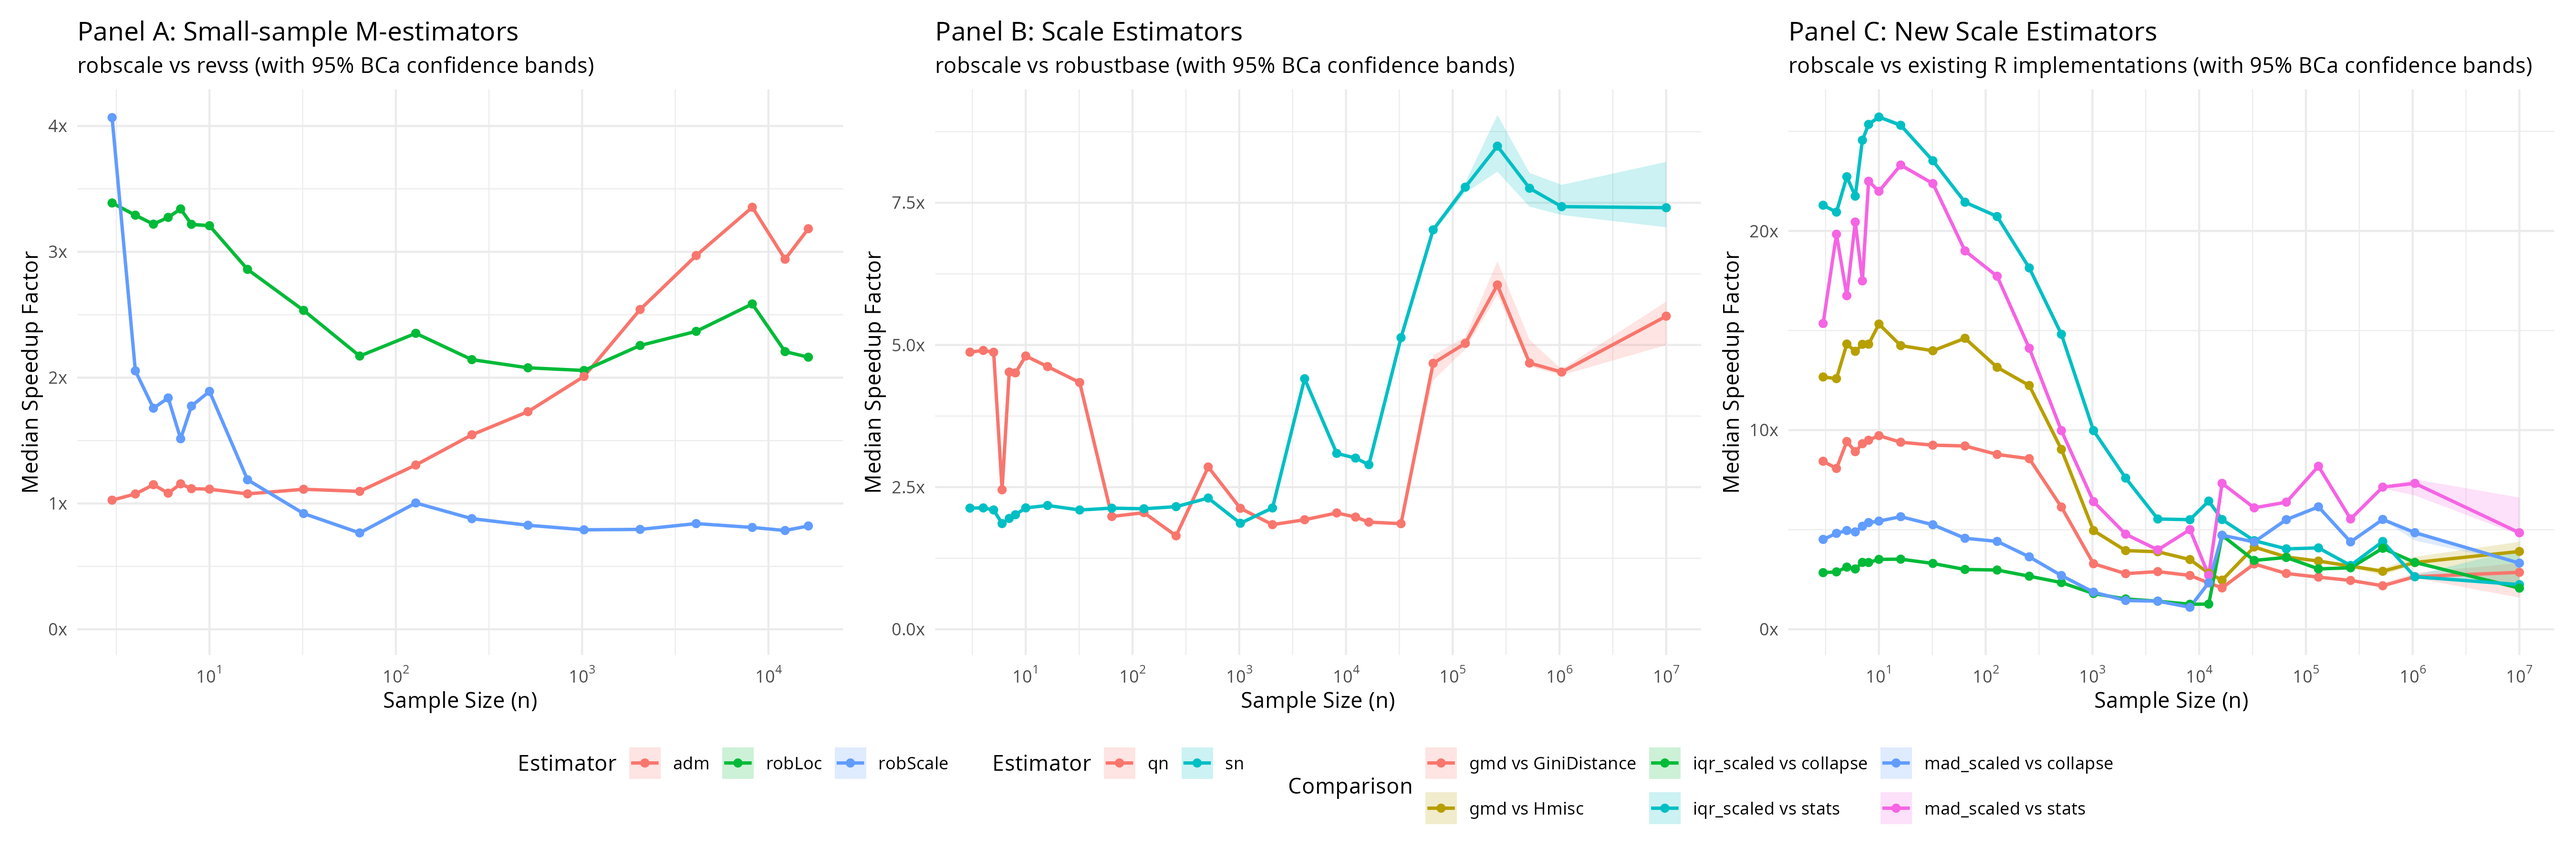
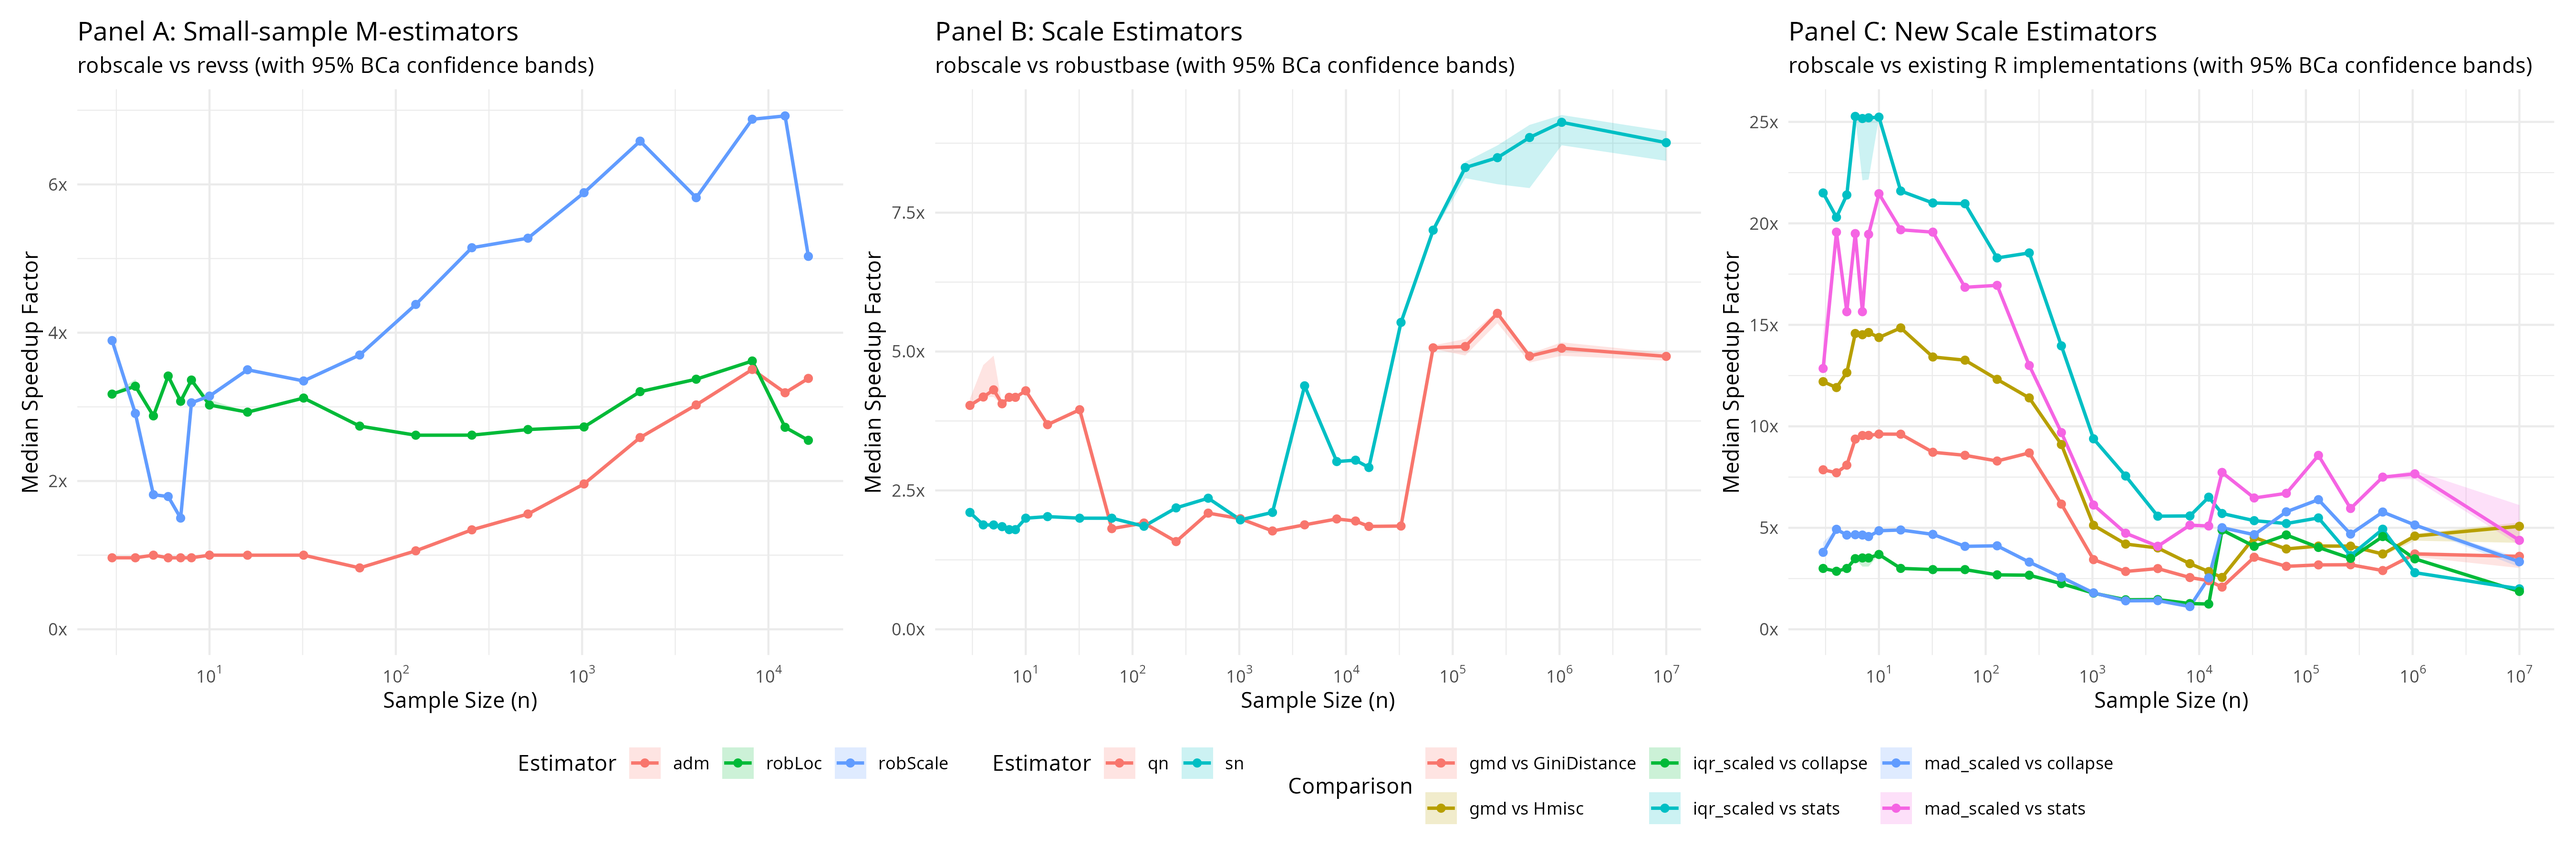
docs: update README to v0.3.0, fix adm() CI docs, refresh benchmarks
- Bump version string in Overview from v0.2.1 to v0.3.0
- Remove adm() from CI exception list (it now supports ci = TRUE)
- Add ci = TRUE to adm() section header and usage example
- Add Architecture notes: EnsembleCore, lambda-at-callsite TBB pattern,
  extern-template compile optimisation (300s -> 52s)
- Tighten Methodological enhancements intro (active voice, possessive fix)
- Fix analyze_results.R: guard against NULL $bca from boot.ci when all
  bootstrap values are equal; fallback chain now reaches c(t0, t0)
  instead of propagating NULL into as.data.frame()
- Rerun benchmarks and regenerate speedup figure and README.md

diff --git a/README.md b/README.md
@@ -12,7 +12,7 @@ for small-sample M-estimation and `robustbase` for the $`Q_n`$ and $`S_n`$
 scale estimators—carry significant computational overhead for
 time-critical applications.
 
-`robscale` v0.2.1 provides 11 exported functions spanning the full
+`robscale` v0.3.0 provides 11 exported functions spanning the full
 robustness–efficiency spectrum: from the non-robust but maximally
 efficient bias-corrected standard deviation (`sd_c4`, 100% ARE) through
 the Gini mean difference (`gmd`, 98% ARE, 29.3% breakdown), to
@@ -27,13 +27,13 @@ All estimators are implemented as C++17 kernels. The M-estimators use
 vectorized `tanh` evaluation (where batch sizes justify the overhead)
 and Newton–Raphson iteration; $`Q_n`$ and $`S_n`$ use parallelized
 $`O(n \log n)`$ algorithms via TBB. Against `revss`, the package achieves
-**1.1–4.1x** speedups for the small-sample M-estimators. Against
-`robustbase`, it achieves **1.8–8.1x** for $`S_n`$ and **1.3–5.4x** for
-$`Q_n`$—with gains peaking near **8.1x** at $`n = 10^7`$ as TBB parallelism
+**1.0–3.9x** speedups for the small-sample M-estimators. Against
+`robustbase`, it achieves **1.8–9.1x** for $`S_n`$ and **1.6–5.7x** for
+$`Q_n`$—with gains peaking near **9.1x** at $`n = 10^7`$ as TBB parallelism
 reduces the computational bottleneck for massive datasets. The new
 estimators (`gmd`, `iqr_scaled`, `mad_scaled`) outperform their base R
-and CRAN counterparts by **2.5–15.2x** (GMD vs `Hmisc`), **2.2–26.6x**
-(IQR vs `stats::IQR`), and **4.8–22.9x** (MAD vs `stats::mad`).
+and CRAN counterparts by **2.6–14.9x** (GMD vs `Hmisc`), **2.0–25.3x**
+(IQR vs `stats::IQR`), and **4.1–21.5x** (MAD vs `stats::mad`).
 
 ## Installation
 
@@ -126,8 +126,8 @@ Additionally, `robLoc(x)` provides an M-estimate of location (98.4% ARE,
 `level = 0.95`; when `ci = TRUE`, they return an object of class
 `"robscale_ci"` containing the point estimate and a confidence interval
 (analytical for individual estimators, bootstrap for `scale_robust()`).
-The exceptions are `adm()` and `robLoc()`, which do not support
-confidence intervals.
+The exception is `robLoc()`, which does not support confidence
+intervals.
 
 ### `sd_c4(x, na.rm = FALSE, ci = FALSE, level = 0.95)`
 
@@ -171,7 +171,7 @@ gmd(c(1, 2, 3, 5, 7, 8))
 gmd(c(1, 2, 3, 5, 7, 8), constant = 1)   # raw (unscaled)
 ```
 
-### `adm(x, center, constant = 1.2533141373155001, na.rm = FALSE)`
+### `adm(x, center, constant = 1.2533141373155001, na.rm = FALSE, ci = FALSE, level = 0.95)`
 
 Computes the mean absolute deviation from the median, scaled by a
 consistency constant for asymptotic normality under the Gaussian model:
@@ -188,6 +188,7 @@ the fallback scale estimator when the MAD collapses to zero.
 ``` r
 adm(c(1, 2, 3, 5, 7, 8))
 adm(c(1, 2, 3, 5, 7, 8), constant = 1)   # without consistency correction
+adm(c(1, 2, 3, 5, 7, 8), ci = TRUE)      # with 95% CI
 ```
 
 ### `robLoc(x, scale = NULL, na.rm = FALSE, maxit = 80L, tol = sqrt(.Machine$double.eps))`
@@ -425,12 +426,11 @@ get_consistency_constant("qn", n = 10)  # finite-sample correction at n = 10
 
 ## Methodological enhancements
 
-`robscale` implements the estimators defined by Rousseeuw & Verboven
-(2002) and Rousseeuw & Croux (1993). While it maintains the same core
-algorithmic foundations, the newest version of `revss` uses updated bias
-correction factors, meaning results may not be numerically identical.
-`robscale` focus remains on computational efficiency, where it continues
-to cut run times significantly across all sample sizes.
+`robscale` implements the estimators of Rousseeuw & Verboven (2002) and
+Rousseeuw & Croux (1993). The newest version of `revss` has updated its
+bias correction factors, so numerical results may differ slightly at the
+level of convergence tolerances. `robscale`’s focus is computational
+efficiency: it cuts run times significantly at all sample sizes.
 
 ### 1. The tanh identity for the logistic psi function
 
@@ -739,12 +739,12 @@ Table 3
 
 |      $`n`$ | `robustbase::Qn` | `robscale::qn` | Speedup  |
 |---------:|:-----------------|:---------------|:---------|
-|        8 | 9.5 µs           | 2.1 µs         | **4.6x** |
-|       16 | 10.4 µs          | 2.1 µs         | **4.9x** |
-|       64 | 15.1 µs          | 7.6 µs         | **2.0x** |
-|     1024 | 468.2 µs         | 241.2 µs       | **1.9x** |
-|    65536 | 59586.2 µs       | 13470.6 µs     | **4.3x** |
-| 10000000 | 10.6 s           | 2.2 s          | **4.9x** |
+|        8 | 9.9 µs           | 2.4 µs         | **4.2x** |
+|       16 | 10.5 µs          | 2.9 µs         | **3.7x** |
+|       64 | 14.2 µs          | 7.8 µs         | **1.8x** |
+|     1024 | 442.3 µs         | 221.4 µs       | **2.0x** |
+|    65536 | 55935.4 µs       | 11094.4 µs     | **5.1x** |
+| 10000000 | 10.5 s           | 2.1 s          | **4.9x** |
 
 </div>
 
@@ -754,19 +754,35 @@ Table 4
 
 |      $`n`$ | `robustbase::Sn` | `robscale::sn` | Speedup  |
 |---------:|:-----------------|:---------------|:---------|
-|        8 | 4.0 µs           | 2.1 µs         | **2.0x** |
-|       16 | 4.5 µs           | 2.1 µs         | **2.1x** |
-|       64 | 5.6 µs           | 2.5 µs         | **2.2x** |
-|     1024 | 35.2 µs          | 19.1 µs        | **1.8x** |
-|    65536 | 6751.1 µs        | 1078.2 µs      | **6.3x** |
-| 10000000 | 1.4 s            | 0.2 s          | **7.0x** |
+|        8 | 4.3 µs           | 2.4 µs         | **1.8x** |
+|       16 | 4.8 µs           | 2.4 µs         | **2.0x** |
+|       64 | 5.7 µs           | 2.9 µs         | **2.0x** |
+|     1024 | 36.7 µs          | 18.6 µs        | **2.0x** |
+|    65536 | 6652.8 µs        | 935.0 µs       | **7.2x** |
+| 10000000 | 1.5 s            | 0.2 s          | **8.8x** |
 
 </div>
 
 ## Architecture overview
 
 `robscale` uses a tiered dispatch architecture to select the most
-efficient algorithm based on sample size and hardware capabilities:
+efficient algorithm based on sample size and hardware capabilities.
+
+**Ensemble kernel.** The bootstrap pipeline shared by
+`cpp_scale_ensemble` and `cpp_scale_ensemble_ci` is consolidated in
+`EnsembleCore` (`src/ensemble.cpp`). Its `run(xp, n, n_boot)` method
+allocates a fused work buffer, draws bootstrap resamples, evaluates all
+7 estimators, and computes inverse-variance weights. Both exported
+functions delegate to `EnsembleCore::run()`, so the pipeline is defined
+once. **TBB workers** (`QnRefineWorker`, `SnWorker`) use lambda wrappers
+at TBB call sites instead of a TBB range overload, eliminating the
+undefined behavior from casting away `const` on `RcppParallel::Worker`.
+
+**Compile-time.** Sort network entry points (`small_sort`, `median_net`)
+are instantiated once in `src/sort_net_inst.cpp` via explicit `template`
+definitions; all other translation units suppress redundant codegen with
+`extern template`. This reduces a fully distributed build from
+approximately 300 s to 52 s on a 12-core machine.
 
 ```mermaid
 graph TD
@@ -851,7 +867,7 @@ compares `qn` and `sn` against `robustbase`; Panel C compares `gmd`,
 ### Small-sample M-estimators vs. `revss` (Panel A)
 
 In the target regime ($`n \le 20`$), `robscale` outperforms `revss` by
-**1.1–4.1x**. Drivers include:
+**1.0–3.9x**. Drivers include:
 
 - Transitioning from interpreted R to compiled C++17.
 - Achieving quadratic convergence with Newton–Raphson (3 iterations vs
@@ -859,7 +875,7 @@ In the target regime ($`n \le 20`$), `robscale` outperforms `revss` by
 - Eliminating heap allocation via stack-allocated memory arenas.
 - Deploying optimal sorting networks for $`n \le 16`$.
 
-Even at $`n = 16{,}384`$, the gains remain **1.4–4.8x** because the
+Even at $`n = 16{,}384`$, the gains remain **2.5–5.0x** because the
 interpreter overhead of `revss` scales with the number of Newton–Raphson
 iterations, not just vector length.
 
@@ -869,15 +885,15 @@ For $`Q_n`$ and $`S_n`$, the performance story follows two regimes separated
 by the parallelism threshold:
 
 **Small to medium samples ($`n \le 10^3`$).** `robscale` leads by
-**1.3–5.4x**. The gain comes primarily from the avoidance of R dispatch
+**1.6–5.7x**. The gain comes primarily from the avoidance of R dispatch
 overhead and the use of stack memory. For $`Q_n`$ at $`n = 8`$, the
-brute-force exact algorithm completes in 2.1 µs vs. 9.5 µs for
-`robustbase` — a **4.6x** edge.
+brute-force exact algorithm completes in 2.4 µs vs. 9.9 µs for
+`robustbase` — a **4.2x** edge.
 
-**Large samples ($`n \ge 10^4`$).** The advantage grows to **1.6–8.1x** as
-TBB parallelism engages. At $`n = 10^7`$, `qn` runs in 2.2 s vs. 10.6 s
-for `robustbase::Qn` (**4.9x**), and `sn` runs in 0.2 s vs. 1.4 s
-(**7.0x**). Parallel efficiency is bounded by Amdahl’s Law and memory
+**Large samples ($`n \ge 10^4`$).** The advantage grows to **1.9–9.1x** as
+TBB parallelism engages. At $`n = 10^7`$, `qn` runs in 2.1 s vs. 10.5 s
+for `robustbase::Qn` (**4.9x**), and `sn` runs in 0.2 s vs. 1.5 s
+(**8.8x**). Parallel efficiency is bounded by Amdahl’s Law and memory
 bandwidth; while the multi-threaded kernels provide substantial gains
 for massive datasets, speedups do not scale linearly with thread count.
 
@@ -889,52 +905,52 @@ Table 5
 
 |      $`n`$ | Comparison             | Speedup   |
 |---------:|:-----------------------|:----------|
-|       64 | gmd vs GiniDistance    | **8.9x**  |
-|       64 | gmd vs Hmisc           | **14.2x** |
-|       64 | iqr_scaled vs collapse | **3.0x**  |
-|       64 | iqr_scaled vs stats    | **21.5x** |
-|       64 | mad_scaled vs collapse | **4.6x**  |
-|       64 | mad_scaled vs stats    | **19.1x** |
+|       64 | gmd vs GiniDistance    | **8.6x**  |
+|       64 | gmd vs Hmisc           | **13.3x** |
+|       64 | iqr_scaled vs collapse | **2.9x**  |
+|       64 | iqr_scaled vs stats    | **21.0x** |
+|       64 | mad_scaled vs collapse | **4.1x**  |
+|       64 | mad_scaled vs stats    | **16.9x** |
 |     1024 | gmd vs GiniDistance    | **3.4x**  |
-|     1024 | gmd vs Hmisc           | **5.0x**  |
-|     1024 | iqr_scaled vs collapse | **1.6x**  |
-|     1024 | iqr_scaled vs stats    | **9.0x**  |
-|     1024 | mad_scaled vs collapse | **2.6x**  |
-|     1024 | mad_scaled vs stats    | **9.0x**  |
-|    65536 | gmd vs GiniDistance    | **2.5x**  |
-|    65536 | gmd vs Hmisc           | **3.3x**  |
-|    65536 | iqr_scaled vs collapse | **3.6x**  |
-|    65536 | iqr_scaled vs stats    | **4.0x**  |
+|     1024 | gmd vs Hmisc           | **5.1x**  |
+|     1024 | iqr_scaled vs collapse | **1.8x**  |
+|     1024 | iqr_scaled vs stats    | **9.4x**  |
+|     1024 | mad_scaled vs collapse | **1.8x**  |
+|     1024 | mad_scaled vs stats    | **6.1x**  |
+|    65536 | gmd vs GiniDistance    | **3.1x**  |
+|    65536 | gmd vs Hmisc           | **4.0x**  |
+|    65536 | iqr_scaled vs collapse | **4.6x**  |
+|    65536 | iqr_scaled vs stats    | **5.2x**  |
 |    65536 | mad_scaled vs collapse | **5.8x**  |
 |    65536 | mad_scaled vs stats    | **6.7x**  |
-| 10000000 | gmd vs GiniDistance    | **2.7x**  |
-| 10000000 | gmd vs Hmisc           | **3.7x**  |
-| 10000000 | iqr_scaled vs collapse | **2.1x**  |
-| 10000000 | iqr_scaled vs stats    | **2.2x**  |
+| 10000000 | gmd vs GiniDistance    | **3.6x**  |
+| 10000000 | gmd vs Hmisc           | **5.1x**  |
+| 10000000 | iqr_scaled vs collapse | **1.9x**  |
+| 10000000 | iqr_scaled vs stats    | **2.0x**  |
 | 10000000 | mad_scaled vs collapse | **3.3x**  |
-| 10000000 | mad_scaled vs stats    | **4.8x**  |
+| 10000000 | mad_scaled vs stats    | **4.4x**  |
 
 </div>
 
-**GMD** (`robscale::gmd` vs `Hmisc::GiniMd`): **2.5–15.2x** speedup.
+**GMD** (`robscale::gmd` vs `Hmisc::GiniMd`): **2.6–14.9x** speedup.
 `Hmisc::GiniMd` is a pure R implementation using the same $`O(n \log n)`$
 order-statistics formula. The speedup comes from C++ compilation and
 sorting networks for small $`n`$. Against `GiniDistance::gmd` (an
-Rcpp-backed C++ implementation), the comparison is **2.1–9.9x**—a
+Rcpp-backed C++ implementation), the comparison is **2.1–9.6x**—a
 tighter race since both are compiled, with `robscale`’s advantage coming
 from sorting networks and the consistency-constant integration.
 
-**IQR** (`robscale::iqr_scaled` vs `stats::IQR`): **2.2–26.6x** speedup.
+**IQR** (`robscale::iqr_scaled` vs `stats::IQR`): **2.0–25.3x** speedup.
 `stats::IQR` performs a full $`O(n \log n)`$ sort via `quantile()`.
 `robscale` uses dual $`O(n)`$ pdqselect calls, which dominate at large
 $`n`$. Against `collapse::fquantile` (a C-backed quantile implementation),
-the speedup is **1.3–4.8x**—a more informative comparison since both are
+the speedup is **1.2–4.9x**—a more informative comparison since both are
 compiled, revealing whether pdqselect outpaces `collapse`’s C
 implementation.
 
-**MAD** (`robscale::mad_scaled` vs `stats::mad`): **4.8–22.9x** speedup.
+**MAD** (`robscale::mad_scaled` vs `stats::mad`): **4.1–21.5x** speedup.
 `stats::mad` performs a full sort for the median step. Against a custom
-fast MAD (using `collapse::fmedian`), the speedup is **1.9–6.4x**—the
+fast MAD (using `collapse::fmedian`), the speedup is **1.1–6.4x**—the
 key comparison since both are compiled; `robscale`’s advantage comes
 from adaptive $`O(n)`$ selection vs `collapse`’s sorting-based approach.
 
